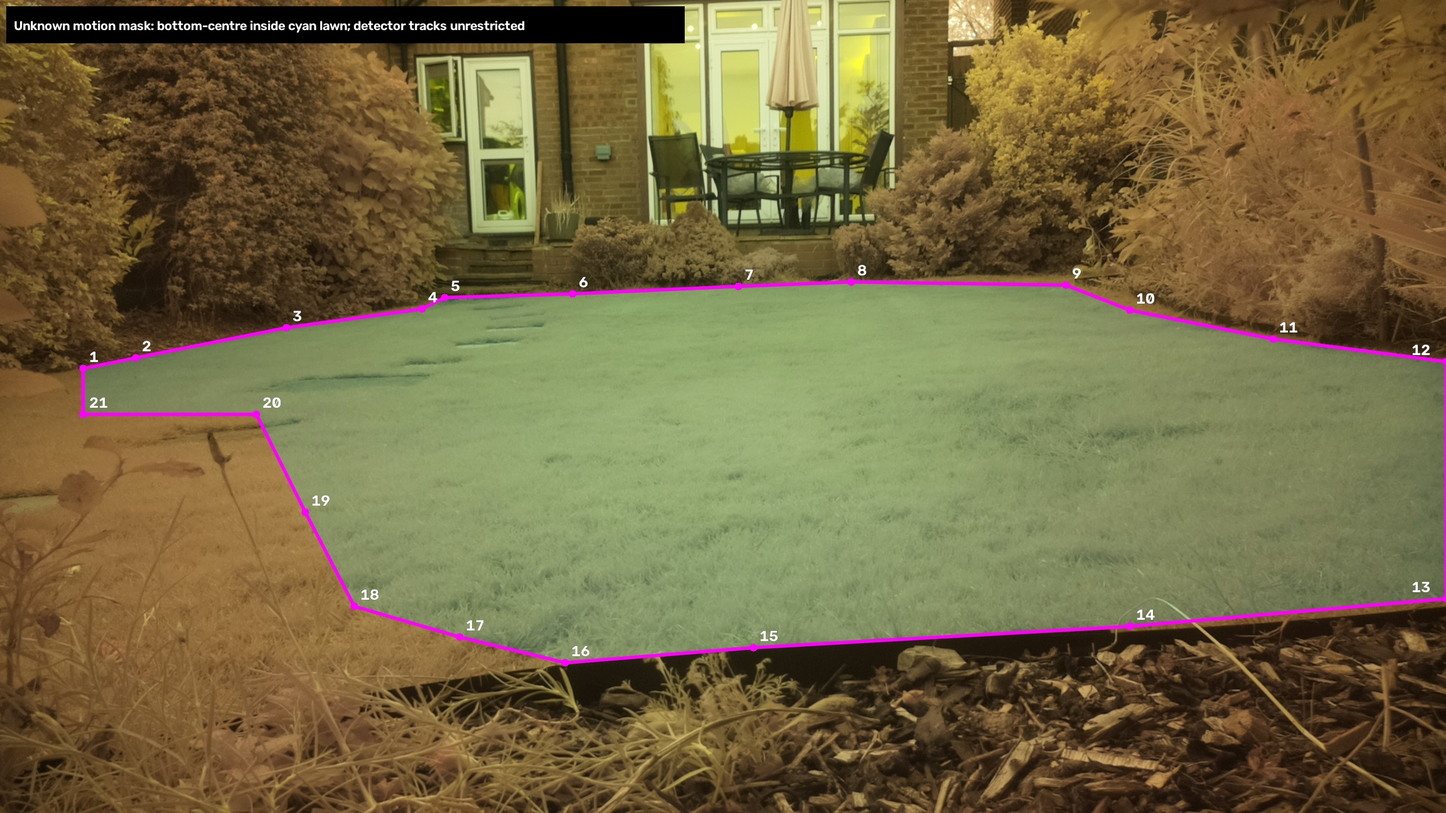
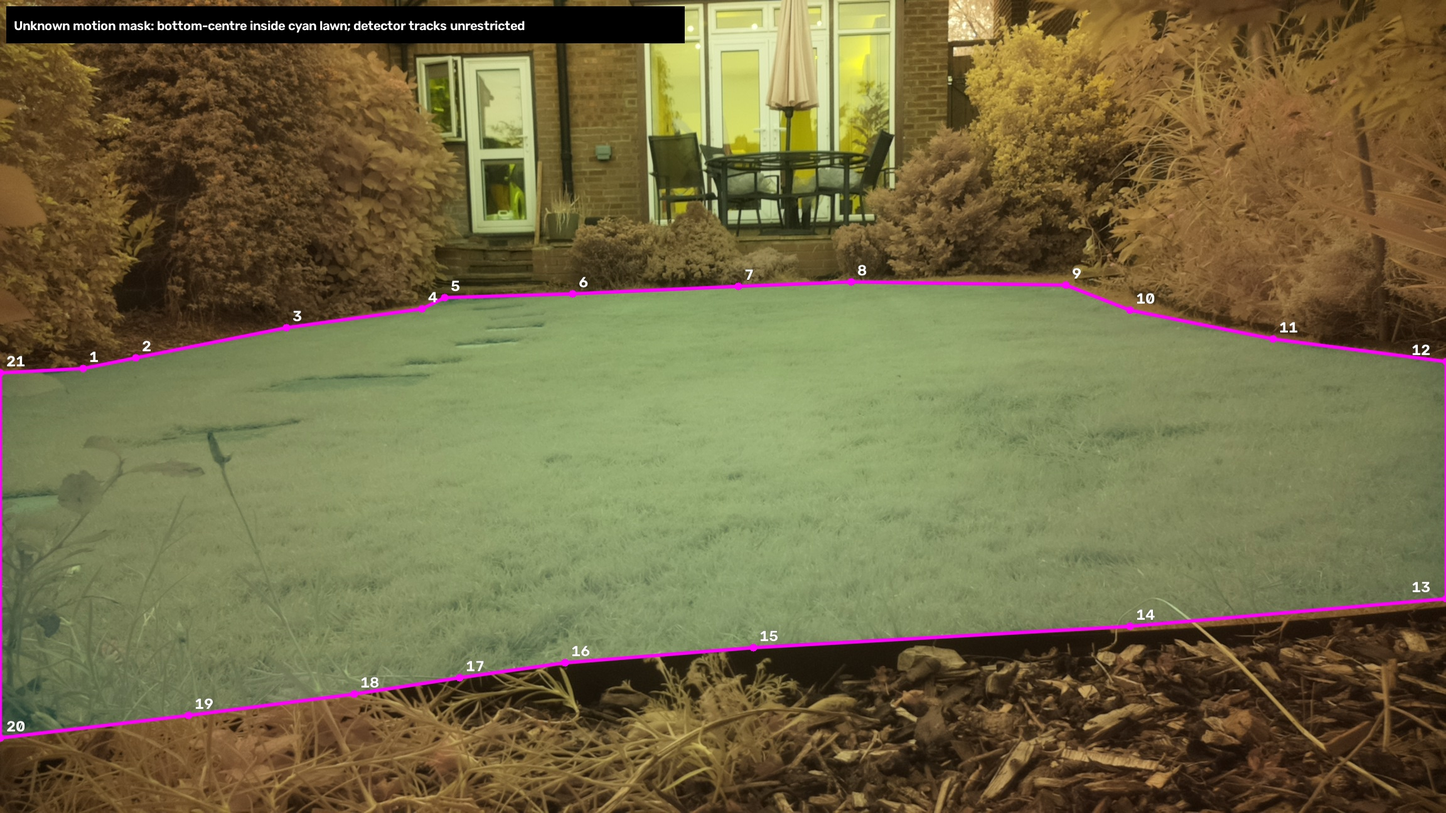
Extend motion mask across the near-left lawn to the metal edging
Include the surveyed near stepping stone and grass behind foreground stems.
Keep beds, shrubs, patio and foreground mulch outside. Regenerate exact
numbered day/night overlays and document the revised cutout in our refit section.

Tests first: five lawn-location assertions failed before changing the polygon.
Validation: pytest 124 passed in 1.25s; offline check_pipeline.py PASS
(44.5 s per clip minute, real-time ratio 0.74); MODEL_DIR=models
check_video.py PASS (expected warning for deliberately truncated input).

Changed region(s): [[0.0, 0.4321, 0.4062, 0.9259]]

diff --git a/tests/test_lawn_mask.py b/tests/test_lawn_mask.py
@@ -1,0 +1,26 @@
+"""The surveyed near-left stones and lawn must not be cut out as vegetation."""
+from pathlib import Path
+
+import cv2
+import numpy as np
+import pytest
+
+from foxcam.ground import load_calibration
+
+
+@pytest.mark.parametrize("point,inside", [
+    ((86 * 5 / 6, 792 * 5 / 6), True),  # Survey 8: near stepping stone.
+    ((200, 700), True),                 # Near-left lawn behind foreground stems.
+    ((350, 850), True),
+    ((500, 900), True),                 # Lawn immediately above the metal edging.
+    ((40, 540), True),                  # Left grass edge beneath the bed.
+    ((100, 300), False),                # Left bed/shrub.
+    ((960, 200), False),                # Patio.
+    ((1850, 350), False),               # Right bed/shrub.
+    ((1200, 1000), False),              # Foreground mulch.
+    ((100, 1050), False),               # Near-left side of edging, in the bed.
+])
+def test_full_lawn_mask_includes_wedge_but_excludes_non_lawn(point, inside):
+    calibration = load_calibration(Path(__file__).parents[1] / "vps/ground-calibration.json")
+    polygon = np.asarray(calibration["motion_polygon"], dtype=np.float32)
+    assert (cv2.pointPolygonTest(polygon, point, False) >= 0) == inside

diff --git a/docs/calibration.md b/docs/calibration.md
@@ -207,3 +207,9 @@ Plane elevation residuals (fitted minus surveyed), in metres:
 | Laser 2 | -0.0288 |
 
 Reproduce both fits and residual sets with `.venv/bin/python tests/fit_ground.py`.
+
+The motion mask was also extended to the whole near-left lawn and stepping
+stones, down to the metal edging. This supersedes the earlier conservative
+cutout described above: grass behind overhanging stems is now included; beds,
+shrubs, patio and foreground mulch remain outside. The linked day/night
+overlays (08 and 09) show the updated numbered vertices.
